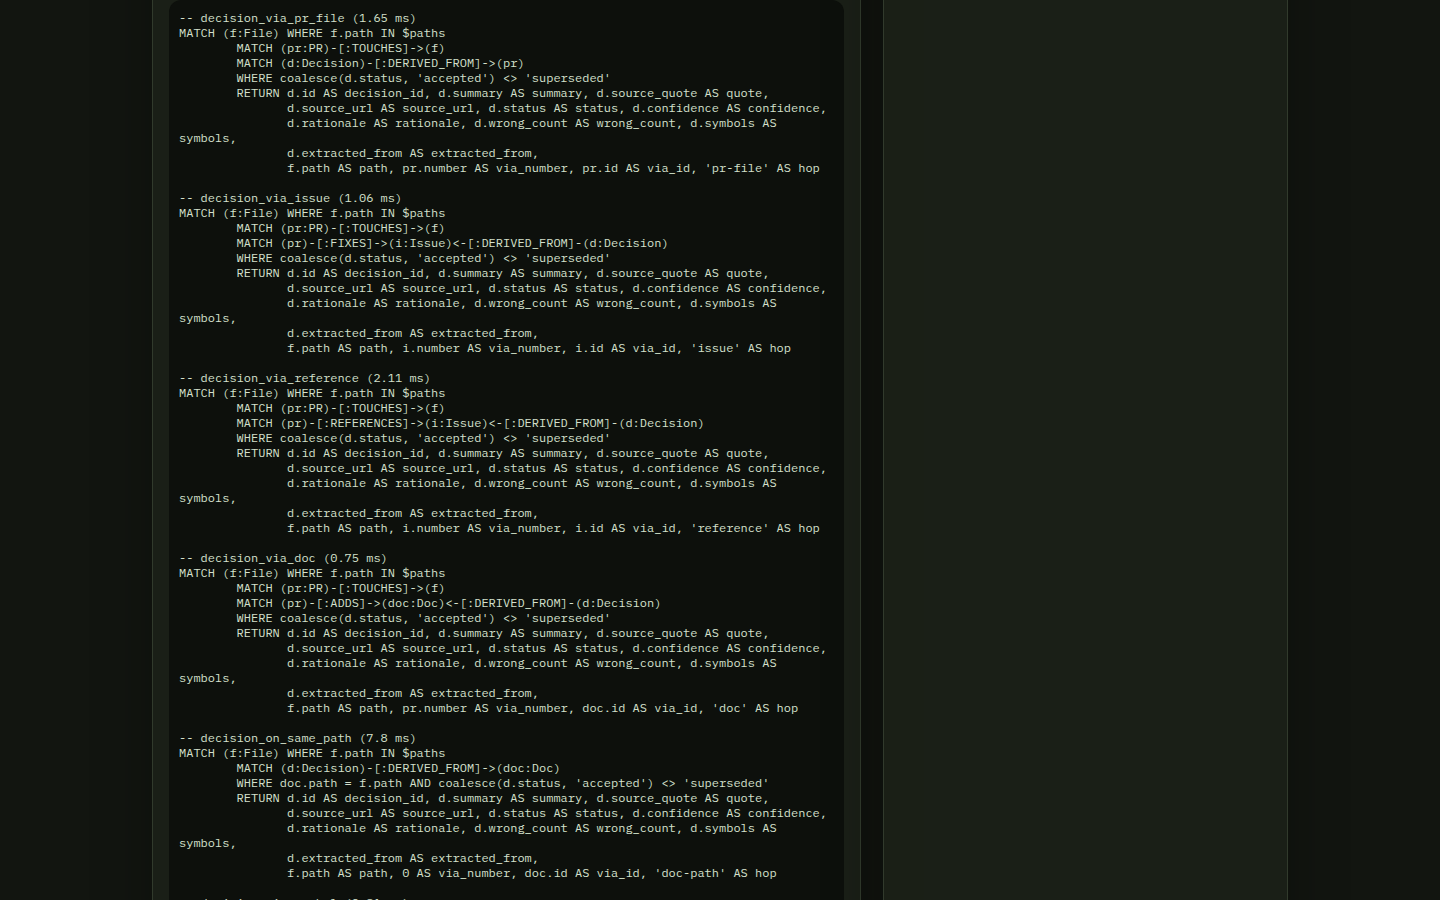
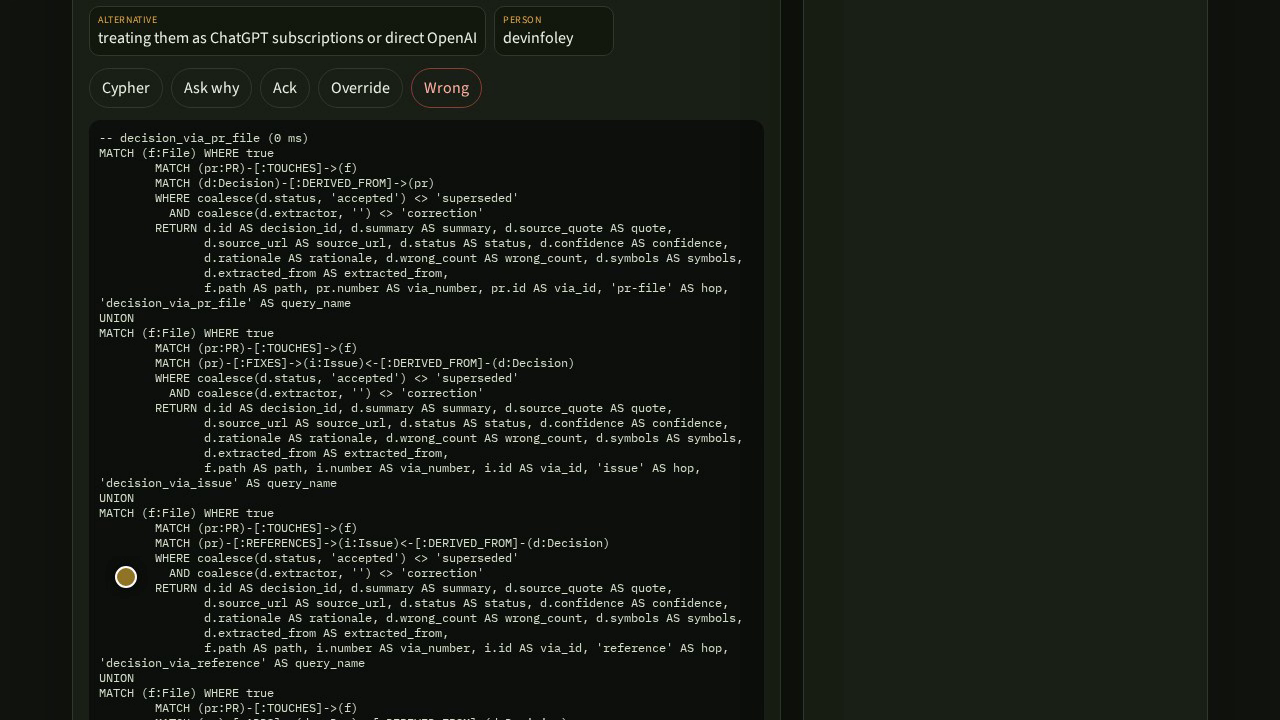
Add the six blog screenshots the write-up embeds.
Use the finished guard, Starlette, Cypher, learned, and MCP captures under docs/img with the filenames docs/BLOG.md already references.

Changed region(s): [[0.0625, 0.0, 0.5938, 1.0]]

diff --git a/docs/BLOG.md b/docs/BLOG.md
@@ -98,13 +98,17 @@ Ingest goes from the public GitHub API, through rule-based edges (`Fixes` gives 
 3. **A judge labels them.** The DeepSeek judge gets the verbatim quote and the hunk, and has to return `contradicts`, `related`, or `unrelated`. Unrelated candidates are dropped. The model never retrieves anything. It only labels what the graph returned. If you asked for the LLM judge and the call fails, the request fails. There's no silent fallback.
 4. **The card shows its evidence:** the verbatim quote and source link, premise status and rule IDs, rejected alternatives, who to ask, the reasoning-path subgraph, and the executed Cypher.
 
-A README typo touches no file that carries a decision, so it passes.
+A README typo touches no file that carries a decision, so it passes:
+
+![Benign diff passes](./img/guard-pass.png)
 
 The same thing works on a repository we didn't seed. I pasted [Kludex/starlette#3651](https://github.com/Kludex/starlette/pull/3651), and the app built a Starlette graph from public data. Then I pasted a diff that turns `if self.max_age is not None:` back into `if self.max_age:`. Guard warned on the decision *"Treat `max_age=0` as an explicit value rather than as unset in `SessionMiddleware`"* and quoted the PR:
 
 > `SessionMiddleware` checked `if self.max_age`, so `max_age=0` was treated like `None` and the cookie became a browser-session cookie. It now checks `is not None`, matching how `max_age` is passed to `unsign`.
 
 It recommended asking `@Kludex` first, by PageRank.
+
+![Starlette max_age reversal warns](./img/guard-starlette-warn.png)
 
 ## Memory from corrections
 
@@ -126,7 +130,11 @@ Because corrections live in FalkorDB, they survive restarts and re-ingests. Re-i
 
 ## MCP and the GitHub Action: the agent acts
 
-The point is for the *agent* to ask the graph before it edits. `python3 -m rationale.mcp_server` (stdio) and `POST /mcp` (JSON-RPC over HTTP) expose five tools: `guard_diff`, `why`, `who_knows`, `check_premises`, `record_feedback`. A call to the live server returns the same decision, the same premise (`linked issue #14548 is still open`), and the same expert, in a form an agent can act on, for example by keeping unknown as `null`.
+The point is for the *agent* to ask the graph before it edits. `python3 -m rationale.mcp_server` (stdio) and `POST /mcp` (JSON-RPC over HTTP) expose five tools: `guard_diff`, `why`, `who_knows`, `check_premises`, `record_feedback`. Here is a real call to the live server:
+
+![MCP guard_diff over HTTP](./img/mcp-guard-diff.png)
+
+It returns the same decision, the same premise (`linked issue #14548 is still open`), and the same expert, in a form an agent can act on, for example by keeping unknown as `null`.
 
 For humans, `action/post_guard.py` runs as a GitHub Action. It upserts one sticky comment marked `<!-- rationale-guard -->` and posts a neutral check run on the PR head SHA. `/rationale ack|override|wrong <reason>` is accepted only from commenters with write access.
 
